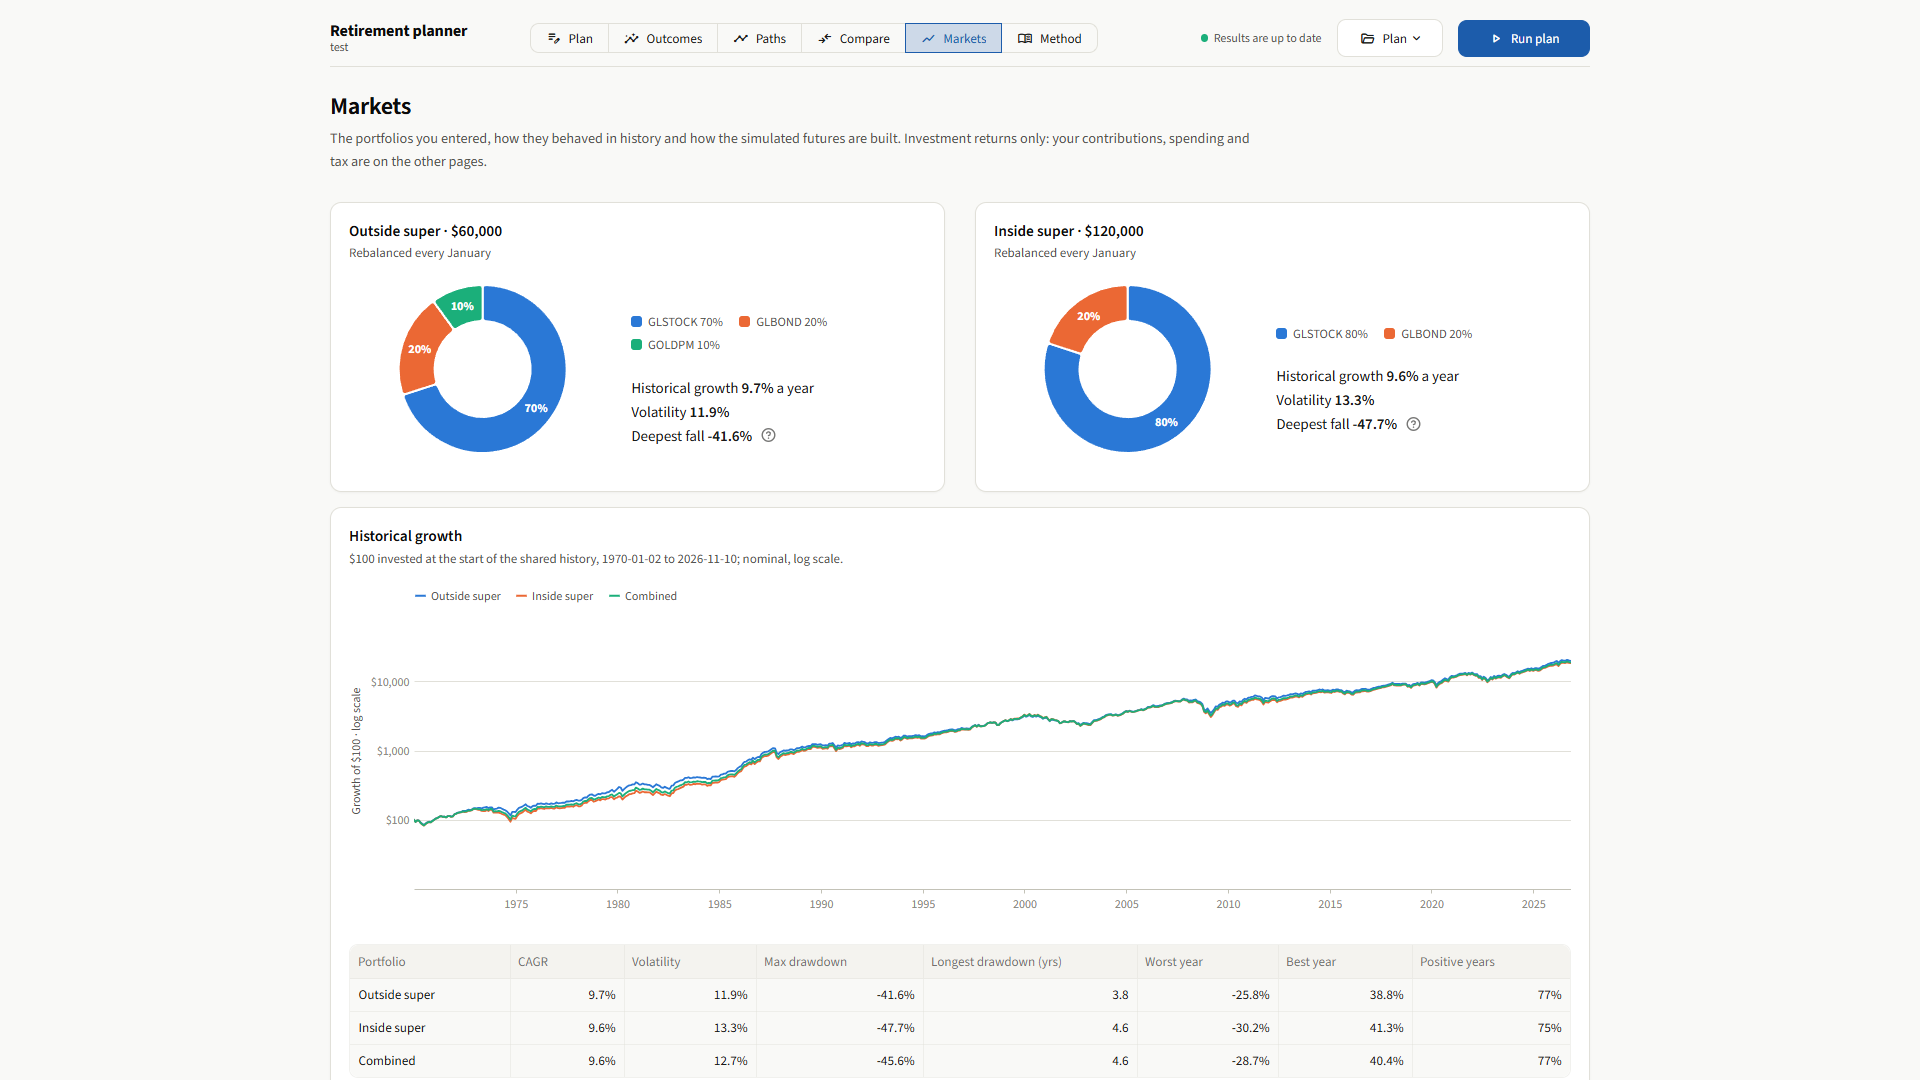
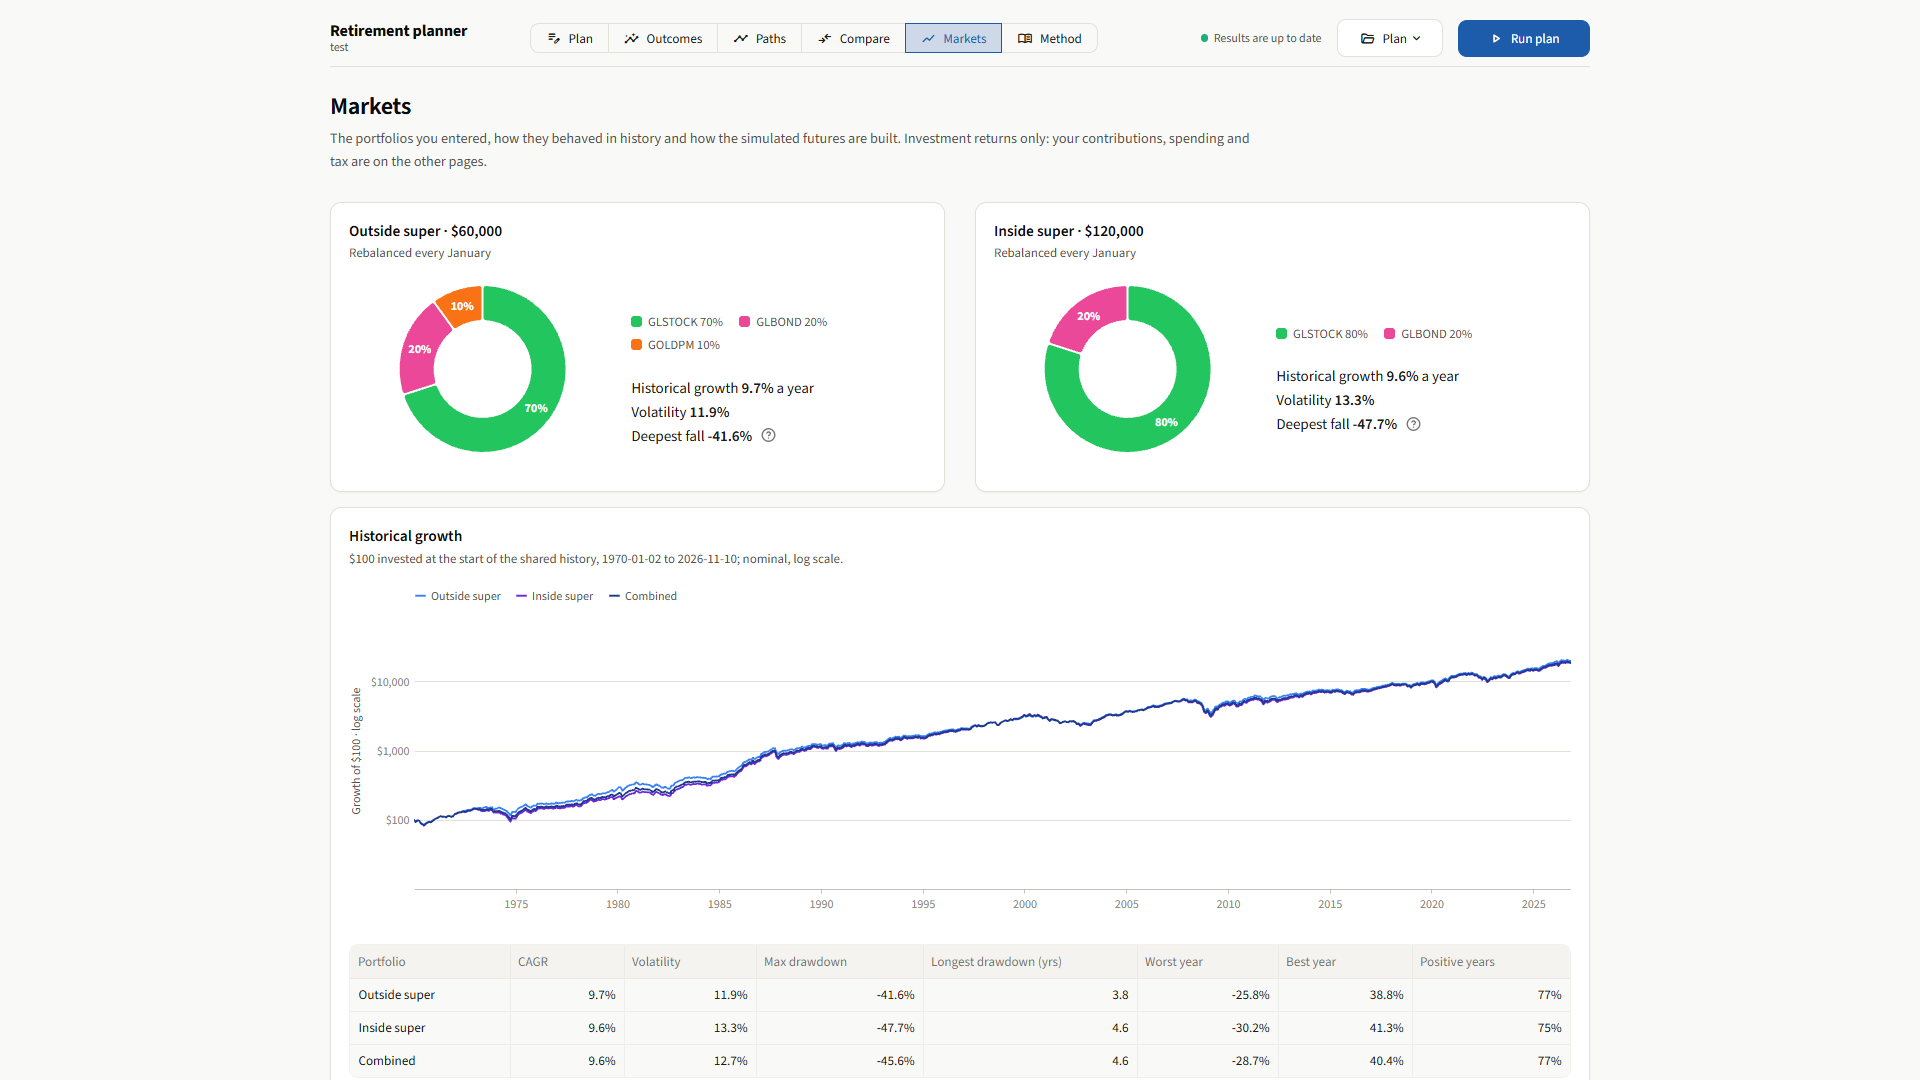
Recolour accounts, portfolios, tickers and money flows with the bold set the user chose (ADR 0059)

diff --git a/src/financial_simulations/reporting/palette.py b/src/financial_simulations/reporting/palette.py
@@ -1,4 +1,4 @@
-"""One colour system for the browser app and the PNG review plots (ADR 0047).
+"""One colour system for the browser app and the PNG review plots (ADRs 0047 and 0059).
 
 Pure constants, so the command line, the reports and the app can all import them. The eight series hues and the
 ink and surface greys are the reference categorical palette already used for the compared strategies
@@ -16,27 +16,42 @@ GRID, AXIS, NEUTRAL = "#e1e0d9", "#c3c2b7", "#a8a69d"
 PAGE, SURFACE = "#f9f9f7", "#ffffff"
 ACCENT = "#1c5cab"  # buttons, links and the selected state: a darker step of the series blue
 
-# Outside super is blue and super is orange wherever accounts or portfolios appear.
-PORTFOLIO_COLOURS = {"Outside super": BLUE, "Inside super": ORANGE, "Combined": AQUA}
-ACCOUNT_COLOURS = {"cash": ("Cash", YELLOW), "outside_investments": ("Outside investments", BLUE),
-                   "accumulation": ("Super (accumulation)", ORANGE), "pension": ("Account-based pension", AQUA)}
+# The bold set (ADR 0059) colours the things a plan is made of: accounts, portfolios, tickers and money flows. The
+# strategies, the outcome tiers and the app's theme keep the reference hues above.
+B_BLUE, B_PURPLE, B_GREEN, B_CYAN = "#3b82f6", "#6d28d9", "#22c55e", "#06b6d4"
+B_PINK, B_ORANGE, B_RED, B_AMBER = "#ec4899", "#f97316", "#e11d48", "#f59e0b"
+B_NAVY, B_BROWN, B_LIME, B_ROSE, TAUPE = "#1e3a8a", "#8f5a14", "#84cc16", "#f472b6", "#b7a99a"
+
+# Outside super is blue and super is purple wherever accounts or portfolios appear; the two combined are navy.
+PORTFOLIO_COLOURS = {"Outside super": B_BLUE, "Inside super": B_PURPLE, "Combined": B_NAVY}
+# Tickers, in the plan's order. They avoid the three portfolio colours, which share a chart with them.
+TICKER_COLOURS = (B_GREEN, B_PINK, B_ORANGE, B_CYAN, B_AMBER, B_RED, B_BROWN, B_LIME)
+# Bars that are not one of the named flows below (transfers between accounts), in drawing order.
+BOLD_SERIES = (B_BLUE, B_PURPLE, B_GREEN, B_CYAN, B_PINK, B_ORANGE, B_RED, B_AMBER)
+ACCOUNT_COLOURS = {"cash": ("Cash", B_AMBER), "outside_investments": ("Outside investments", B_BLUE),
+                   "accumulation": ("Super (accumulation)", B_PURPLE), "pension": ("Account-based pension", B_GREEN)}
 # A home loan is drawn below zero under the accounts, only on paths that have one.
-MORTGAGE_COLOUR = ("Mortgage owed", RED)
+MORTGAGE_COLOUR = ("Mortgage owed", B_RED)
 # An investment property's value is drawn above the accounts and its loan below zero, only on paths that have one.
-PROPERTY_COLOUR, PROPERTY_LOAN_COLOUR = ("Investment property", GREEN), ("Investment loan owed", VIOLET)
+PROPERTY_COLOUR, PROPERTY_LOAN_COLOUR = ("Investment property", B_CYAN), ("Investment loan owed", B_ROSE)
 # A former investment property you moved into stays in total wealth as your home: the property's brown flow hue.
-MOVED_HOME_COLOUR = ("Home you moved into", "#8a5a1c")
+MOVED_HOME_COLOUR = ("Home you moved into", B_BROWN)
 
 # Money in and out, in stacking order. The four taxes are drawn as one "Tax" flow, and an investment property's rent,
 # costs, loan interest and value growth as one "Investment property" flow, and mortgage interest and the home's running
-# costs as one "Home" flow (``flows.fold_taxes``): sixteen hues cannot be
-# told apart, and the yearly tables keep each flow. The property's brown is outside the eight series hues (all in use
-# here); like yellow it is drawn with a legend and a table.
-FLOW_COLOURS = {"Take-home salary": BLUE, "Super contributions": ORANGE, "Investment returns": AQUA,
-                "Interest on cash": GREEN, "Age Pension": YELLOW, "Spending": MAGENTA, "Tax": VIOLET,
-                "Home": RED, "Investment property": "#8a5a1c",
-                "Inflation": NEUTRAL}
+# costs as one "Home" flow (``flows.fold_taxes``): sixteen hues cannot be told apart, and the yearly tables keep each
+# flow. Green, cyan, orange and amber are below 3:1 contrast on white, so the charts carry a legend and a table.
+FLOW_COLOURS = {"Take-home salary": B_BLUE, "Super contributions": B_PURPLE, "Investment returns": B_GREEN,
+                "Interest on cash": B_CYAN, "Age Pension": B_PINK, "Spending": B_ORANGE, "Tax": B_RED,
+                "Home": B_AMBER, "Investment property": B_BROWN,
+                "Inflation": TAUPE}
 NET_COLOUR, ADDED_COLOUR = INK, "#104281"
+
+
+def portfolio_line_colours(count):
+    """Line colours for a chart's portfolios, in drawing order: combined, outside, inside, or the last two alone."""
+    return (B_NAVY, B_BLUE, B_PURPLE) if count > 2 else (B_BLUE, B_PURPLE)
+
 
 # Path outcomes, from the best to the worst (``retirement.outcomes.TIERS``). Self-funded is a neutral grey so that
 # colour marks only the paths that need attention; the other three darken with severity.

diff --git a/src/financial_simulations/ui/paths_page.py b/src/financial_simulations/ui/paths_page.py
@@ -7,7 +7,7 @@ import numpy as np
 import pandas as pd
 import streamlit as st
 
-from financial_simulations.reporting.palette import INK, INK_SECONDARY, MUTED, NEUTRAL, SERIES
+from financial_simulations.reporting.palette import BOLD_SERIES, portfolio_line_colours
 from financial_simulations.retirement.flows import account_flows, fold_taxes, household_flows
 from financial_simulations.retirement.outcomes import TIERS, ending_percentiles
 from financial_simulations.retirement.path_markets import COMBINED_PORTFOLIO, PORTFOLIO, group_markets, path_markets, real_growth
@@ -124,11 +124,11 @@ def group_view(run, d, members, label):
 
 
 def story_colours(run, stats):
-    """Each market series' kind and colour: the portfolios dark, each ticker its colour from the Markets page."""
+    """Each market series' kind and colour: the portfolios navy, blue and purple, each ticker its Markets-page colour."""
     kinds = dict(zip(stats["Series"], stats["Kind"]))
     tickers = charts.ticker_colours(run.plan["assets"])
     count = sum(kind == PORTFOLIO for kind in kinds.values())  # three when a combined portfolio leads
-    portfolio_colours = iter((INK, INK_SECONDARY, NEUTRAL) if count > 2 else (INK, MUTED))
+    portfolio_colours = iter(portfolio_line_colours(count))
     return kinds, {name: next(portfolio_colours) if kind == PORTFOLIO else tickers[name] for name, kind in kinds.items()}
 
 
@@ -383,7 +383,7 @@ def path_moves(run, d, result, daily, marks):
             # A fixed colour domain keeps hidden flows in the legend so they can be shown again.
             chart, _ = charts.hideable(alt.Chart(part).mark_bar(size=12, stroke="#ffffff", strokeWidth=0.6).encode(
                 x=x, y=alt.Y("sum(AUD):Q", title="Today's dollars", axis=charts.money_axis()),
-                color=alt.Color("Flow:N", scale=alt.Scale(domain=flows, range=list(SERIES[:len(flows)])),
+                color=alt.Color("Flow:N", scale=alt.Scale(domain=flows, range=list(BOLD_SERIES[:len(flows)])),
                                 legend=alt.Legend(symbolType="square")),
                 tooltip=[*charts.year_tooltip(), "Flow:N", alt.Tooltip("AUD:Q", format="$,.0f")]),
                 "Flow", flows, state, name)

diff --git a/src/financial_simulations/ui/charts.py b/src/financial_simulations/ui/charts.py
@@ -15,8 +15,8 @@ import streamlit as st
 
 from financial_simulations.reporting.palette import (ACCOUNT_COLOURS, MORTGAGE_COLOUR, MOVED_HOME_COLOUR, PROPERTY_COLOUR,
                                                      PROPERTY_LOAN_COLOUR, ADDED_COLOUR, AXIS, BLUE, FLOW_COLOURS, INK,
-                                                     INK_SECONDARY, MUTED, NET_COLOUR, PORTFOLIO_COLOURS, SERIES, SURFACE,
-                                                     TIER_COLOURS)
+                                                     INK_SECONDARY, MUTED, NET_COLOUR, PORTFOLIO_COLOURS, SURFACE,
+                                                     TICKER_COLOURS, TIER_COLOURS)
 from financial_simulations.retirement.outcomes import TIERS
 from financial_simulations.rules.au.superannuation import age_on
 from financial_simulations.ui.state import compact
@@ -681,7 +681,7 @@ def path_story(growth, kinds, colours, daily, household, additions, marks, state
 
 def allocation_pie(weights, tickers):
     """Donut of one portfolio's weights: percentages on the slices, fixed colours per ticker."""
-    colour = {t: SERIES[i % len(SERIES)] for i, t in enumerate(tickers)}
+    colour = ticker_colours(tickers)
     labels = weights["Label"].tolist()
     scale = alt.Scale(domain=labels, range=[colour[t] for t in weights["Ticker"]])
     base = alt.Chart(weights).encode(theta=alt.Theta("Weight:Q", stack=True), order=alt.Order("Weight:Q", sort="descending"))
@@ -695,7 +695,7 @@ def allocation_pie(weights, tickers):
 
 
 def ticker_colours(tickers):
-    return {t: SERIES[i % len(SERIES)] for i, t in enumerate(tickers)}
+    return {t: TICKER_COLOURS[i % len(TICKER_COLOURS)] for i, t in enumerate(tickers)}
 
 
 def overlay_histogram(frame, field, title, *, series, log=False, percent=True, height=SHORT):

diff --git a/src/financial_simulations/reporting/plan.py b/src/financial_simulations/reporting/plan.py
@@ -200,13 +200,13 @@ def write_path_markets_plot(output: Path, plan, growth, stats, path):
     The same lines and figures as the top panel and table of the app's single-path view (ADR 0049). ``growth`` and
     ``stats`` come from ``path_markets``.
     """
-    from financial_simulations.reporting.palette import INK, INK_SECONDARY, MUTED, NEUTRAL, SERIES
+    from financial_simulations.reporting.palette import TICKER_COLOURS, portfolio_line_colours
     from financial_simulations.retirement.path_markets import PORTFOLIO, real_growth
 
     real = real_growth(growth, plan["assumptions"]["cpi_annual"])
-    tickers = {t: SERIES[i % len(SERIES)] for i, t in enumerate(plan["assets"])}
+    tickers = {t: TICKER_COLOURS[i % len(TICKER_COLOURS)] for i, t in enumerate(plan["assets"])}
     # Three portfolios when a combined one leads the two entered.
-    portfolio_colours = iter((INK, INK_SECONDARY, NEUTRAL) if (stats["Kind"] == PORTFOLIO).sum() > 2 else (INK, MUTED))
+    portfolio_colours = iter(portfolio_line_colours((stats["Kind"] == PORTFOLIO).sum()))
     with matplotlib.rc_context({"font.family": "DejaVu Sans"}):
         fig, ax = _figure("Markets on the path nearest median ending wealth",
                           f"Path {path}: growth of $1 invested on the first day, today's dollars, log scale\n"

diff --git a/docs/decisions/0059-bold-colours-for-accounts-portfolios-and-flows.md b/docs/decisions/0059-bold-colours-for-accounts-portfolios-and-flows.md
@@ -1,0 +1,86 @@
+# ADR 0059: bold colours for accounts, portfolios, tickers and money flows
+
+Date: 2026-11-14.
+
+Status: accepted; implemented and tested. Supersedes the account, portfolio, ticker and flow colours of
+[ADR 0047](0047-app-layout-and-one-visual-system.md); its layout, chart configuration, strategy colours and outcome
+tier colours stand.
+
+## Context
+
+**User requirements:**
+
+- The money in and out bar charts should have different colours.
+- The markets, wealth and money in and out panels of the Paths page should change with them.
+- The dark green (`#008300`) should be replaced by a brighter green.
+- The combined, outside and inside portfolio lines should not be greys.
+- The colours of the Outcomes page's headline charts (outcome tiers, the median and its bands) are liked and stay.
+
+The user was shown seven candidate schemes on sample data and chose the one called G, "Bold": saturated blue,
+purple, green, cyan, pink, orange, red and amber.
+
+## Decision
+
+`reporting/palette.py` gains a second set of hues, the bold set, for the things a plan is made of. The reference
+hues of ADR 0047 remain for the compared strategies, the outcome tiers and the app's theme.
+
+| Thing | Colour |
+| --- | --- |
+| Outside super (account and portfolio), take-home salary | Blue `#3b82f6` |
+| Super accumulation, inside-super portfolio, super contributions | Purple `#6d28d9` |
+| Account-based pension, investment returns, first ticker | Green `#22c55e` |
+| Cash, home costs | Amber `#f59e0b` |
+| Mortgage owed, tax | Red `#e11d48` |
+| Spending | Orange `#f97316` |
+| Interest on cash, investment property value | Cyan `#06b6d4` |
+| Age Pension | Pink `#ec4899` |
+| Investment property flow, home you moved into | Brown `#8f5a14` |
+| Investment loan owed | Rose `#f472b6` |
+| Inflation | Taupe `#b7a99a` |
+| Combined portfolio | Navy `#1e3a8a` |
+
+Tickers take green, pink, orange, cyan, amber, red, brown and lime (`#84cc16`) in the plan's order, on the Markets
+page and the Paths page alike. They avoid blue, purple and navy, which are the portfolios drawn beside them.
+Transfers between accounts use the first eight bold hues.
+
+**Outside super is blue and super is purple** wherever accounts or portfolios appear. This replaces "super is
+orange" in ADR 0047.
+
+### Two shades differ from the scheme as shown
+
+The scheme the user chose had blue `#2563eb` and purple `#7c3aed`. The palette validator scored that pair at a
+separation of 0.4 for deuteranopia (the target is 8) and 12.4 for normal vision (the floor is 15). The two are
+neighbours in the wealth chart, the flow bars and the market lines, as outside super and super. Blue was lightened
+to `#3b82f6` and purple deepened to `#6d28d9`, which score 10.9 and 18.7.
+
+## Reasons and evidence
+
+- **User requirement:** the scheme, the brighter green and coloured portfolio lines.
+- **Engineering judgement:** the two adjusted shades; the colours of things the sample charts did not show
+  (investment property, its loan, the home moved into, the fourth and later tickers); and applying the scheme
+  wherever the same account, portfolio or flow is drawn, so that one thing has one colour on every page.
+- **Checked with the palette validator** (14 November 2026, white surface, neighbours in drawing order): the ten
+  flow colours, the account colours, mortgage beside investment loan, and the eight ticker colours pass the
+  lightness band, the chroma floor, the colour-vision separation of neighbours and the normal-vision floor.
+- **Known shortfalls.** Green, cyan, orange, amber, rose and lime are below 3:1 contrast on white, so every chart
+  that uses them carries a legend and a table. Red beside brown among the tickers scores 7.1 for protanopia, and
+  green against orange 6.2 for deuteranopia when all market lines are compared with each other; both are in the
+  band that requires the legend and hover values the charts have. Navy is darker than the band for filled marks; it
+  is used only for the combined portfolio's line.
+
+## Consequences
+
+- The Markets page changes too: its donuts and portfolio lines use the ticker and portfolio colours above.
+- The Outcomes page's *Money in and out* tab changes with the flows. Its spending and Age Pension percentile bands
+  keep the reference magenta and yellow, so spending is orange in the bars and magenta in its band.
+- The PNG review plots of a plan follow the same constants.
+- The app now has two sets of hues. A new chart of accounts, portfolios, tickers or flows takes the bold set; a
+  chart of strategies or outcome tiers takes the reference set.
+
+## Implementation and validation
+
+- **Code:** `reporting/palette.py` (the bold set, `TICKER_COLOURS`, `BOLD_SERIES`, `portfolio_line_colours`),
+  `ui/charts.py`, `ui/paths_page.py`, `reporting/plan.py`.
+- **Tests:** the suite passes unchanged; `tests/test_outcomes.py` checks that every drawn flow has a colour.
+- **Browser check:** a 60-year plan with a home loan and four strategies was run and the Paths, Markets and
+  Outcomes pages were inspected. The README screenshots were retaken from that run.

diff --git a/docs/decisions/README.md b/docs/decisions/README.md
@@ -64,6 +64,7 @@ Decision records preserve why Financial Simulations makes a material modelling o
 | [0056](0056-stacked-path-chart-speed.md) | 2026-11-13 | Accepted; implemented and tested | The stacked path chart on canvas with a hover strip per month instead of a nearest-point search, a smaller specification, and the specification kept per view |
 | [0057](0057-hover-box-rows-and-a-shorter-test-suite.md) | 2026-11-13 | Accepted; implemented and tested | Hover boxes with name and value on one line and the age on its own row; slow tests removed, merged or made cheaper where the risk did not justify the time |
 | [0058](0058-method-page-as-a-technical-summary.md) | 2026-11-13 | Accepted; implemented and tested | The Method page as a technical summary in nine tabs: the model's equations with the run's own figures, the rules carried into later years with their values, and the main assumptions with the direction of each one's effect |
+| [0059](0059-bold-colours-for-accounts-portfolios-and-flows.md) | 2026-11-14 | Accepted; implemented and tested | A bold set of hues for accounts, portfolios, tickers and money flows, chosen by the user; outside super blue, super purple; two shades adjusted for colour-vision separation |
 
 ## When to write a record
 

diff --git a/docs/methodology/plan-and-app.md b/docs/methodology/plan-and-app.md
@@ -432,7 +432,9 @@ calculations behind every figure are unchanged, so the section-by-section descri
 where it says "section", read the page in this table. ADR 0047 lists the charts that were removed (their figures
 remain in tables) and two that changed: the four taxes are drawn as one *Tax* flow in money in and out charts
 (`flows.fold_taxes`), and the Age Pension chart shows only the paths paid that year, with the full single rate as a
-line. Colours for the app and the PNG plots come from `reporting/palette.py`.
+line. Colours for the app and the PNG plots come from `reporting/palette.py`:
+the reference hues for strategies and outcome tiers (ADR 0047) and a bold set for accounts, portfolios, tickers and
+money flows ([ADR 0059](../decisions/0059-bold-colours-for-accounts-portfolios-and-flows.md)).
 
 ### Method page
 

diff --git a/docs/decisions/0047-app-layout-and-one-visual-system.md b/docs/decisions/0047-app-layout-and-one-visual-system.md
@@ -5,6 +5,8 @@ Date: 2026-11-10.
 Status: accepted; implemented and tested. Supersedes the page layout in
 [ADR 0016](0016-plan-file-and-browser-app.md) and the strategy tabs in
 [ADR 0046](0046-one-tab-per-strategy.md); the calculations behind every figure are unchanged.
+The account, portfolio, ticker and flow colours are superseded by
+[ADR 0059](0059-bold-colours-for-accounts-portfolios-and-flows.md).
 
 ## Context
 
